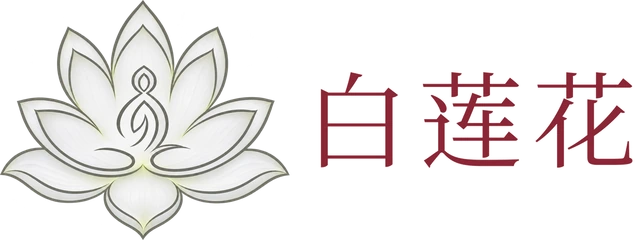
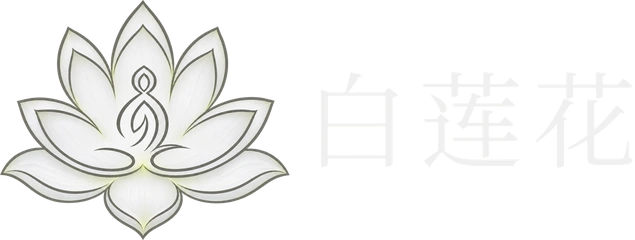
白字标志；色带与App图标换精修蓝纸纹；目录字号缩小两号

Changed region(s): [[0.6583, 0.2917, 1.0, 0.7], [0.4787, 0.2917, 0.6283, 0.7]]

diff --git a/.vitepress/theme/custom.css b/.vitepress/theme/custom.css
@@ -13,7 +13,7 @@
    【比例】阅读宽度 720px；首页目录条 460px（文字短，条子窄，两边多留白）
    【间距】只用 8 的倍数：8 / 16 / 24 / 32 / 48
    【颜色】与手机图标一致：
-       蓝色纸纹 #668daa  页眉、页脚两条色带（与手机浏览器色条连成一片；2026-11-20 由明黄改蓝）
+       蓝色纸纹 #608ca5  页眉、页脚两条色带（与手机浏览器色条连成一片；2026-11-20 由明黄改蓝）
        纯白          阅读区底色（长时间读经不刺眼）
        米色 #e9e0d3 + 赭金 #b28e46 细边   目录条
        蓝灰 #b2bcc6  搜索框（圆角比目录条小一档，以示区别）
@@ -43,7 +43,7 @@
   --t-sm: 13px;       /* 注释 */
   --t-ui: 16px;       /* 按钮、搜索框 */
   --t-body: 16px;     /* 输入框、提示语 */
-  --t-item: 20px;     /* 目录条 */
+  --t-item: 18px;     /* 目录条（2026-11-20 缩小两号） */
   --t-title: 25px;    /* 页标题 */
   --t-brand: 28px;    /* 左上角网站名（与莲花般配） */
   --t-nav: 12px;      /* 导航图标下的小字 */
@@ -51,7 +51,7 @@
   /* ---- 字号：藏文 ---- */
   --bo-sm: 16px;
   --bo-ui: 20px;
-  --bo-item: 22px;
+  --bo-item: 20px;
   --bo-title: 28px;
   --bo-read: 22px;
 
@@ -67,7 +67,7 @@
 
   /* ---- 颜色 ---- */
   --pk-bg: #ffffff;
-  --pk-band: #668daa;         /* 页眉、页脚色带：蓝色纸纹（图片 public/band-blue.webp，这是它的平均色，图片载入前先显示） */
+  --pk-band: #608ca5;         /* 页眉、页脚色带：蓝色纸纹（图片 public/band-blue.webp，这是它的平均色，图片载入前先显示） */
   --pk-band-img: url('/band-blue.webp');
   --pk-band-ink: #ffffff;     /* 色带上的图标与文字：白 */
   --pk-gold: #8fb0c8;         /* 细边：淡蓝（2026-11-20 由金色改蓝，配蓝色色带） */
@@ -169,7 +169,7 @@ body, .pk-item, .pk-searchbox, .pk-nav-btn { transition: background-color .25s, 
 .Layout { padding-bottom: calc(var(--bottom-h) + var(--s3)); box-sizing: border-box; }
 .pk-mt-card { bottom: calc(var(--bottom-h) + 8px); max-height: 50vh; }
 .pk-search-panel { max-height: calc(100dvh - var(--bottom-h) - 200px); }
-.pk-band { width: 100%; background: var(--pk-band); background-image: var(--pk-band-img); background-size: 256px 256px; background-repeat: repeat; color: var(--pk-band-ink); transition: background-color .25s; }
+.pk-band { width: 100%; background: var(--pk-band); background-image: var(--pk-band-img); background-size: 627px 627px; background-repeat: repeat; color: var(--pk-band-ink); transition: background-color .25s; }
 /* 横屏时避开刘海和圆角 */
 .pk-band { padding-left: env(safe-area-inset-left, 0px); padding-right: env(safe-area-inset-right, 0px); box-sizing: border-box; }
 /* 页面最外层底色也跟着色调，滚动回弹时露出的边缘不会是别的颜色 */
@@ -811,8 +811,8 @@ html[lang="en"] .pk-item-name { letter-spacing: .01em; }
 /* ============ 手机：页眉仍是 左标志+网站名 ｜ 右三个按钮；网站名太长时自动折成两行 ============ */
 @media (max-width: 640px) {
   :root {
-    --t-item: 18px; --t-title: 22px;
-    --bo-item: 20px; --bo-title: 24px; --bo-read: 20px; --bo-ui: 18px;
+    --t-item: 16px; --t-title: 22px;
+    --bo-item: 18px; --bo-title: 24px; --bo-read: 20px; --bo-ui: 18px;
     --ctrl-h: 44px;
     --brand-h: 40px;
     --brand-art-h: 50px;

diff --git a/.vitepress/theme/components/SiteHeader.vue b/.vitepress/theme/components/SiteHeader.vue
@@ -20,7 +20,7 @@ const showSearch = ref(false)
 // 手机浏览器顶栏颜色跟着色调走：浅色明黄，深色深蓝（与页眉色带一致）
 onMounted(() => {
   watch(isDark, (d) => {
-    document.querySelectorAll('meta[name="theme-color"]').forEach((m) => m.setAttribute('content', d ? '#1c1c1c' : '#668daa'))
+    document.querySelectorAll('meta[name="theme-color"]').forEach((m) => m.setAttribute('content', d ? '#1c1c1c' : '#608ca5'))
   }, { immediate: true })
 })
 
